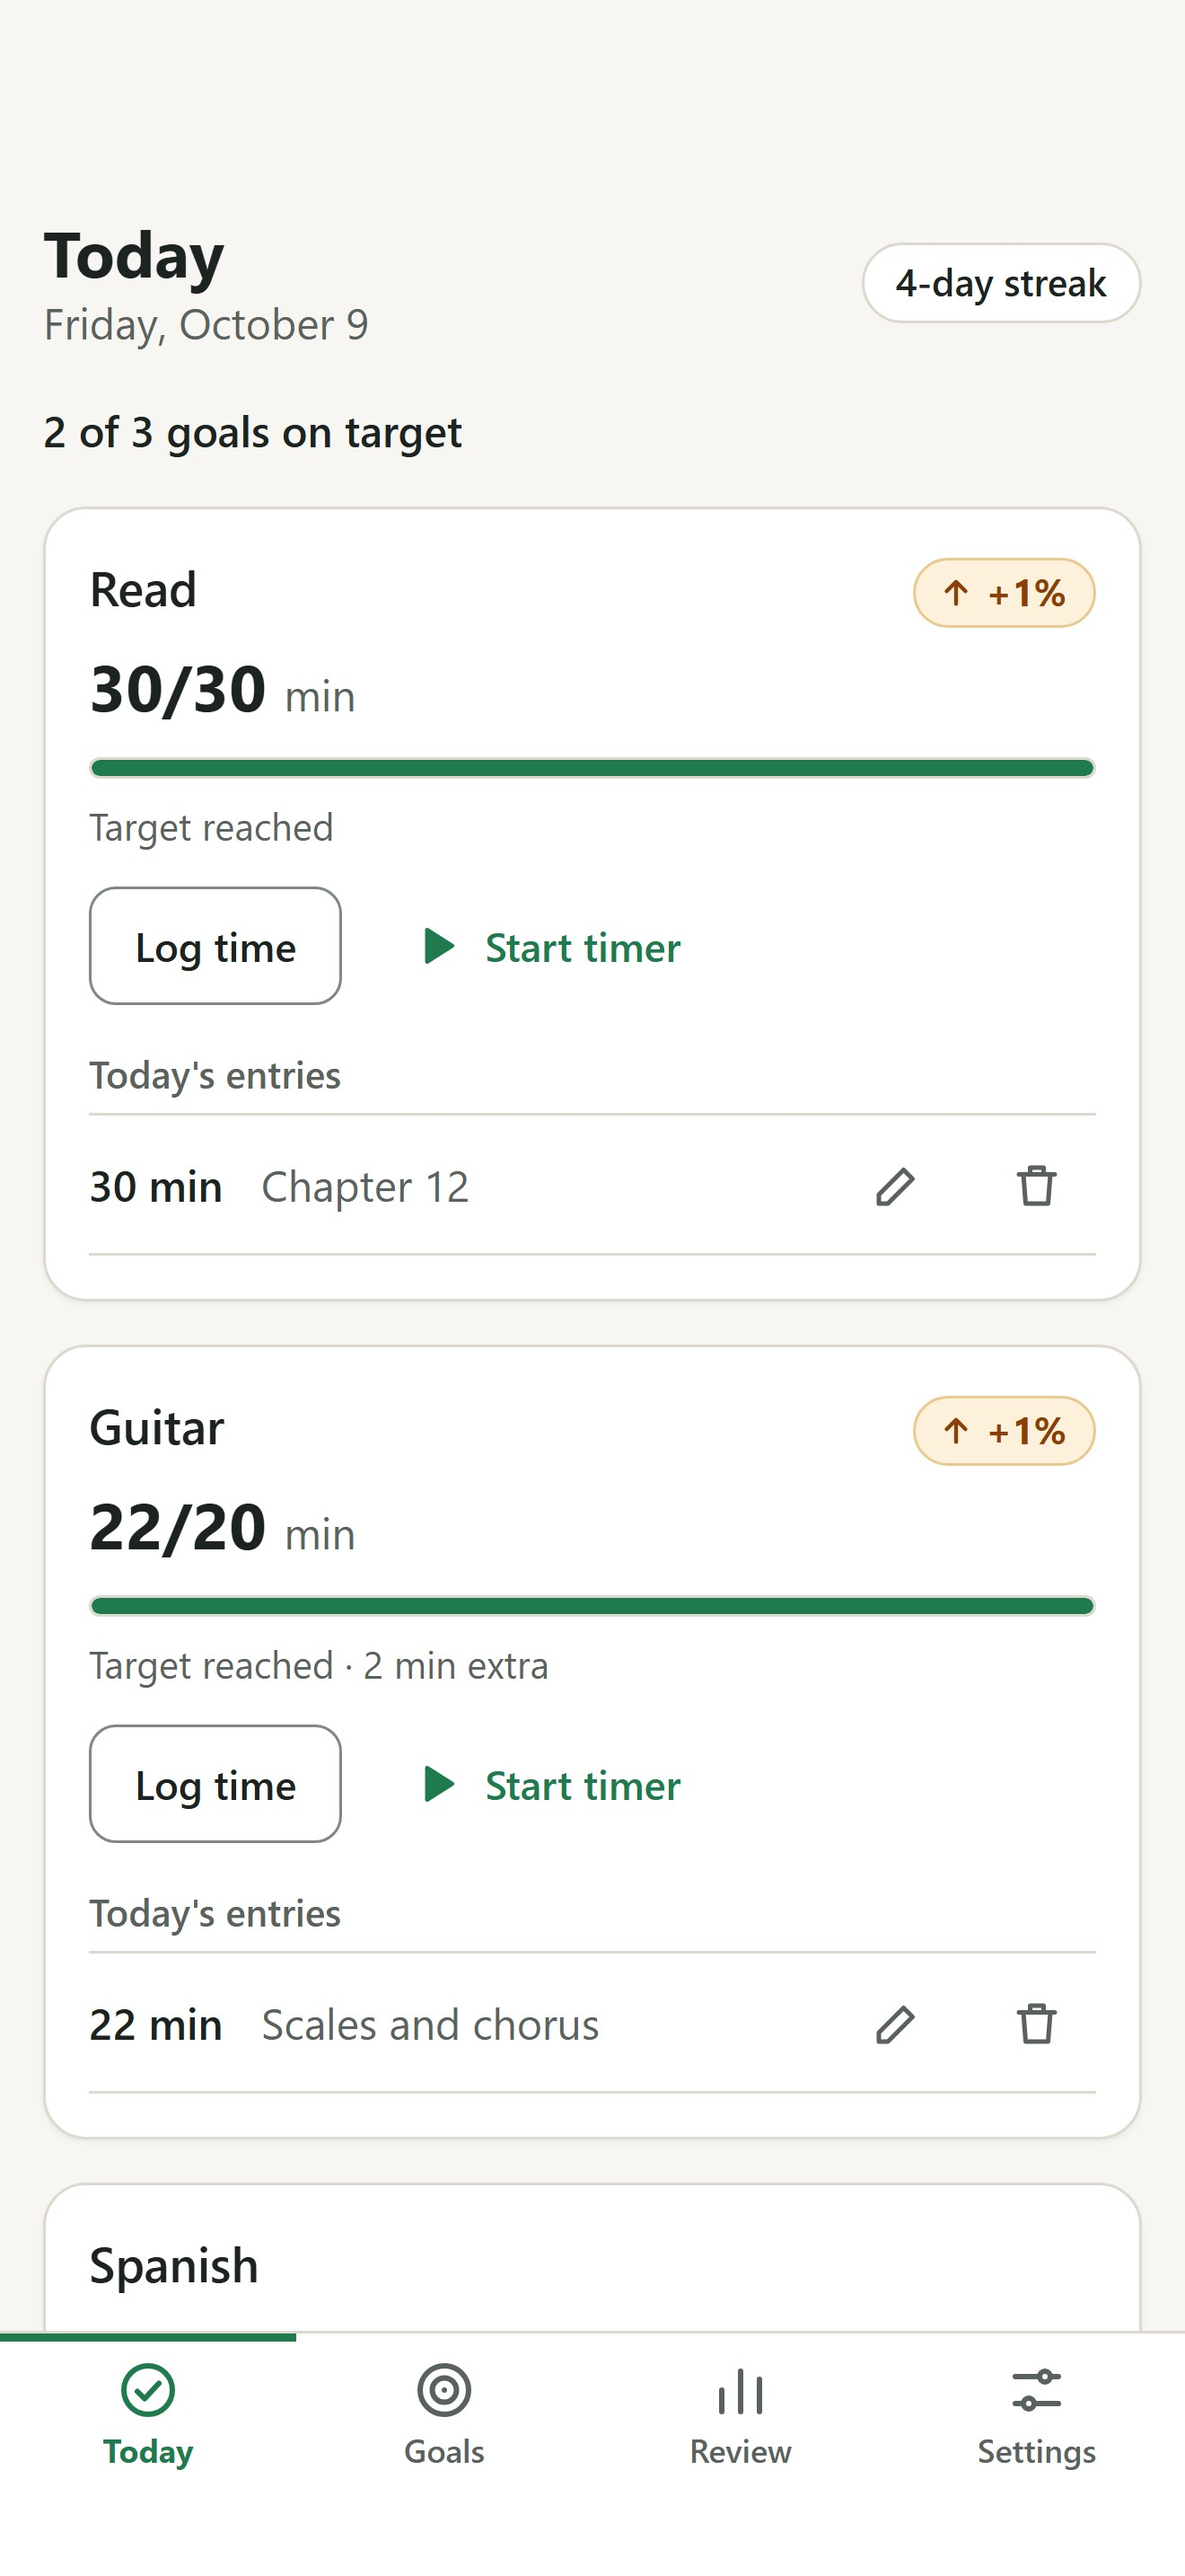
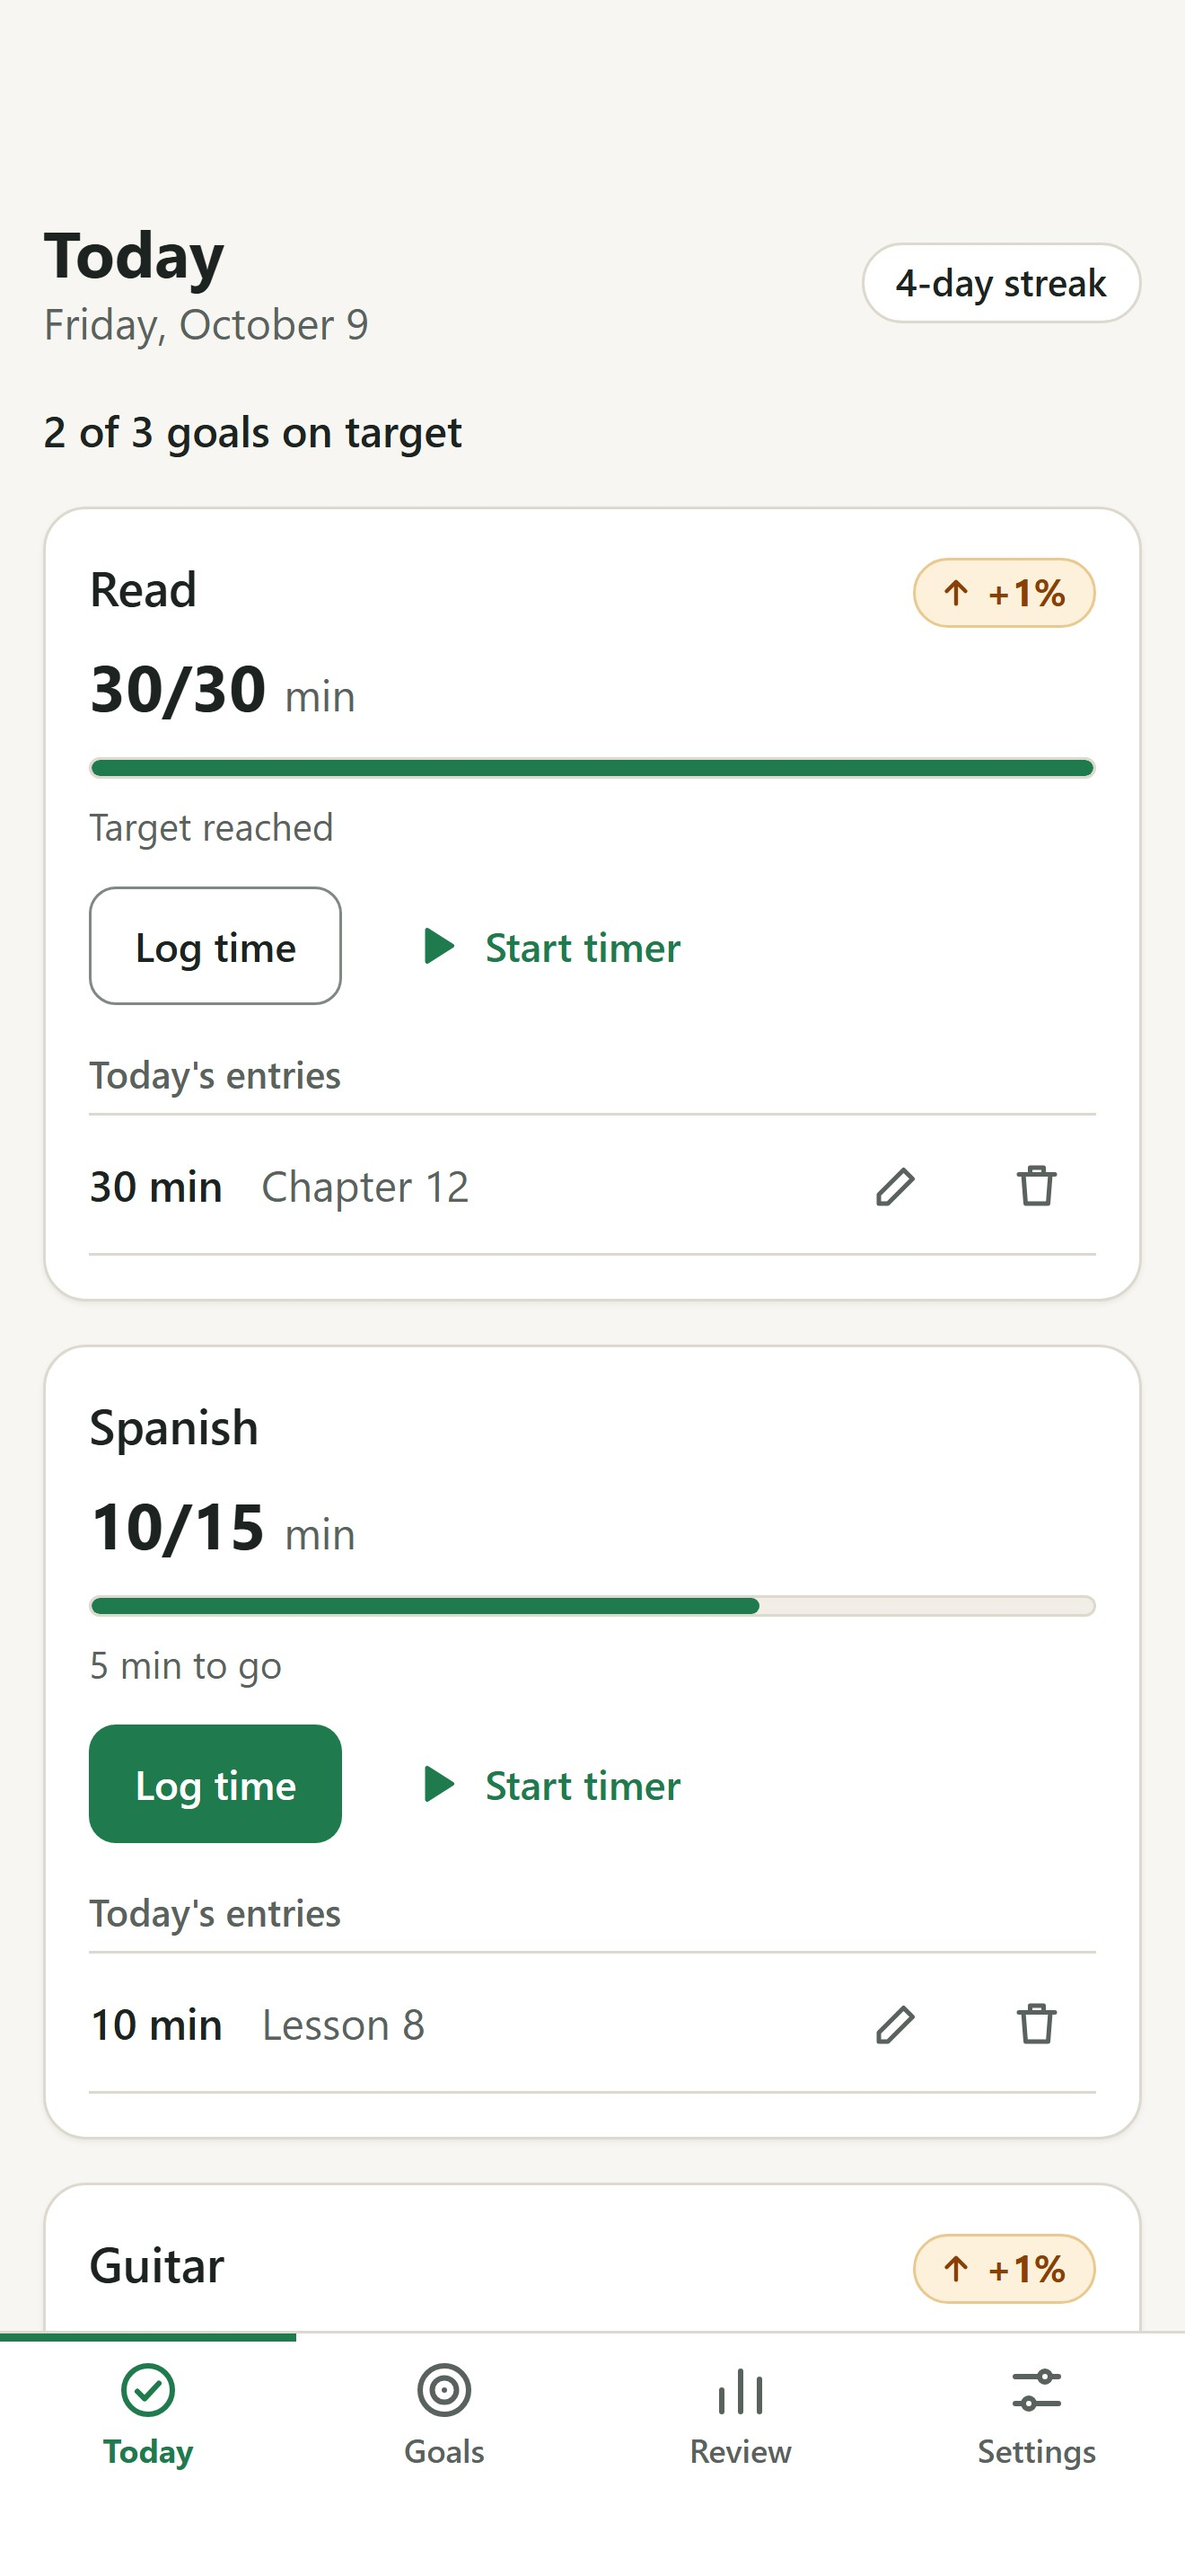
fix(M15): today's reminder is dropped once its instant is past (second precision) so a replan inside the reminder minute no longer fires immediately (M15-D2); demo goals created Read → Spanish → Guitar so screenshots 01/02 show the in-progress card, screenshot 05 scrolled to the Upcoming + Ended gro

diff --git a/store/screenshots.spec.ts b/store/screenshots.spec.ts
@@ -94,6 +94,12 @@ for (const [locale, appLocale, copy] of [
             await expectAmount(page, 'Guitar', '22/20');
             await expectAmount(page, copy === EN ? 'Spanish' : 'Tiếng Tây Ban Nha', '10/15');
             expect(await page.locator('[data-testid="backup-banner"], [data-testid="reminder-banner"]').count()).toBe(0);
+            // M15-D1: the in-progress card (10/15, "5 min to go") must be inside the picture, not under the tab bar.
+            await expect(page.getByRole('heading', { level: 1 })).toBeInViewport();
+            await expect(page.getByText(/^(5 min to go|Còn 5 phút)$/)).toBeInViewport({ ratio: 1 });
+            break;
+          case '02-timer.jpg':
+            await expect(page.getByText(/^(5 min to go|Còn 5 phút)$/)).toBeInViewport({ ratio: 1 });
             break;
           case '03-curve.jpg':
             await expect(page.getByRole('heading', { level: 1, name: 'Guitar' })).toBeVisible();
@@ -102,9 +108,21 @@ for (const [locale, appLocale, copy] of [
           case '04-review.jpg':
             await expect(page.getByTestId('heatmap')).toBeVisible();
             break;
-          case '05-goals.jpg':
+          case '05-goals.jpg': {
             await expect(goalCard(page, 'Piano').or(page.getByText('Piano'))).toBeVisible();
+            // M15-D1: show the three groups. The Active cards alone fill most of the screen, so the page is scrolled until
+            // the Ended heading and the top of the Stretch card sit just above the tab bar (the title scrolls off).
+            const ended = page.getByRole('heading', { level: 2, name: /^(Ended|Đã kết thúc)/ });
+            await ended.evaluate((el) => {
+              const tabBar = document.querySelector('.nav') as HTMLElement | null;
+              const reserve = (tabBar?.getBoundingClientRect().height ?? 90) + 200; // tab bar + first rows of the Stretch card
+              window.scrollTo(0, Math.max(0, el.getBoundingClientRect().top + window.scrollY - (window.innerHeight - reserve)));
+            });
+            await expect(ended).toBeInViewport({ ratio: 1 });
+            await expect(page.getByRole('heading', { level: 2, name: /^(Upcoming|Sắp tới)/ })).toBeInViewport({ ratio: 1 });
+            await expect(page.getByRole('heading', { level: 3, name: copy === EN ? 'Stretch' : 'Giãn cơ' })).toBeInViewport({ ratio: 1 });
             break;
+          }
           default:
             break;
         }

diff --git a/src/domain/reminder-plan.ts b/src/domain/reminder-plan.ts
@@ -37,20 +37,21 @@ function allActiveGoalsReached(goals: readonly Goal[], today: ISODate, progress:
 
 /**
  * Dates to schedule, ascending. Rules (ARCH §5.6 v5.0): nothing when reminders are off; a day is skipped when no
- * unarchived goal is active on it; today is skipped when the reminder time has already passed (`hh:mm(now) >
- * reminderTime`, equal keeps it) or when every active goal has already met its target today.
+ * unarchived goal is active on it; today is skipped when its reminder instant is already in the past (M15-D2: the
+ * plugin delivers a past `at` immediately, so `20:00:30` with a 20:00 reminder must not re-fire on every replan;
+ * exactly 20:00:00 still keeps today) or when every active goal has already met its target today.
  */
 export function planReminderDates({ now, reminderEnabled, reminderTime, goals, todayProgress, days = REMINDER_PLAN_DAYS }: ReminderPlanInput): ISODate[] {
   if (!reminderEnabled) return [];
   const target = reminderTimeToMinutes(reminderTime);
   if (target === null) return [];
   const today = toISODate(now);
-  const nowMinutes = now.getHours() * 60 + now.getMinutes();
+  const todayAt = reminderDateTime(today, reminderTime).getTime();
   const out: ISODate[] = [];
   for (let i = 0; i < days; i += 1) {
     const date = addDays(today, i);
     if (!hasActiveGoal(goals, date)) continue;
-    if (i === 0 && (nowMinutes > target || allActiveGoalsReached(goals, today, todayProgress))) continue;
+    if (i === 0 && (todayAt < now.getTime() || allActiveGoalsReached(goals, today, todayProgress))) continue;
     out.push(date);
   }
   return out;

diff --git a/src/domain/reminder-plan.test.ts b/src/domain/reminder-plan.test.ts
@@ -28,10 +28,17 @@ describe('planReminderDates (M15-AC1)', () => {
     expect(REMINDER_PLAN_DAYS).toBe(14);
   });
 
-  it('exactly at the reminder time (20:00:00) today is still planned; one minute later it is dropped (13 days)', () => {
+  it('exactly at the reminder time (20:00:00) today is still planned; one second later it is dropped (13 days) — M15-D2', () => {
+    expect(plan(s1(), at('19:59:59'))).toEqual(range('2026-10-09', 14));
     expect(plan(s1(), at('20:00:00'))).toEqual(range('2026-10-09', 14));
-    expect(plan(s1(), at('20:00:59'))).toEqual(range('2026-10-09', 14));
+    // A past `at` would be delivered immediately by the plugin on every replan inside that minute (M15-D2).
+    expect(plan(s1(), at('20:00:01'))).toEqual(range('2026-10-10', 13));
+    expect(plan(s1(), at('20:00:30'))).toEqual(range('2026-10-10', 13));
+    expect(plan(s1(), at('20:00:59'))).toEqual(range('2026-10-10', 13));
     expect(plan(s1(), at('20:01:00'))).toEqual(range('2026-10-10', 13));
+    // Every planned instant lies in the future (or is now).
+    const now = at('20:00:00');
+    for (const d of plan(s1(), now)) expect(reminderDateTime(d, '20:00').getTime()).toBeGreaterThanOrEqual(now.getTime());
   });
 
   it('every active goal already on target today → the plan starts tomorrow', () => {

diff --git a/src/services/reminder-service.replan.test.ts b/src/services/reminder-service.replan.test.ts
@@ -91,8 +91,8 @@ describe('ReminderService.replan (M15-AC2)', () => {
     expect(items[0].title).toBe(vi.notification.nativeTitle);
     expect(items[0].body).toBe(vi.notification.nativeBody);
     expect(items[0].at.getTime()).toBe(local('2026-10-09', 7, 30).getTime());
-    // Past 07:30 today → tomorrow first.
-    expect(await service.replan(at('07:31:00'))).toBe('scheduled');
+    // Past 07:30 today (even by seconds, M15-D2) → tomorrow first.
+    expect(await service.replan(at('07:30:05'))).toBe('scheduled');
     expect(pendingSchedule(notifications)[0].at.getTime()).toBe(local('2026-10-10', 7, 30).getTime());
     expect(pendingSchedule(notifications)).toHaveLength(13);
   });

diff --git a/docs/handoff/dev-M15.md b/docs/handoff/dev-M15.md
@@ -122,3 +122,15 @@ Kết quả lần chạy cuối (2026-10-22, HEAD `2c66097`, Windows 11, Node 22
 ## 10. Dispute
 
 - `tests/qc/m12-r1-static.test.ts` (7 plugin): mâu thuẫn plan M15-T2 (pin plugin thứ 8) — đề nghị re-target "= tập `@capacitor/*`/`@capgo/*` runtime trong `dependencies`". Không sửa file QC.
+
+## Fix log
+
+### Round 1 — theo report-M15-r1.md (QC commit `7a45d9a`; fix commit xem `git log a80e3b2..HEAD`)
+
+| Defect | Nguyên nhân gốc | Cách sửa | Regression test |
+| :- | :- | :- | :- |
+| M15-D2 (Minor) | `planReminderDates` so theo **phút** (`hh:mm(now) > reminderTime`): trong phút 20:00 (vd 20:00:30) hôm nay vẫn được giữ với `at = 20:00:00` đã ở quá khứ → plugin iOS giao ngay mỗi lần replan trong phút đó (ghi entry → debounce 2 s, resume, đổi giờ) | Domain: hôm nay bị bỏ khi **`reminderDateTime(today, time) < now`** (so mili-giây); đúng 20:00:00.000 vẫn giữ (M15-AC1); 20:00:01 trở đi → bắt đầu ngày mai. Không đổi adapter/service | `src/domain/reminder-plan.test.ts` ca "exactly at the reminder time … one second later it is dropped — M15-D2": 19:59:59 giữ, 20:00:00 giữ, 20:00:01 / 20:00:30 / 20:00:59 / 20:01:00 → 13 ngày từ 10-10; mọi `at` của lịch ≥ `now`. `reminder-service.replan.test.ts` ca vi dùng 07:30:05 → từ ngày mai. **Test QC `tests/qc/m15-r1-plan.test.ts:90` (`plan(at(20, 0, 59))[0] === '2026-10-09'`) nay đỏ** vì mã hoá quy tắc cũ theo phút — mâu thuẫn chính D2 → đề nghị QC re-target thành `'2026-10-10'` (không sửa file QC) |
+| M15-D1 (Minor) | Ở 440×956 mỗi card Today ≈ 650 px CSS (có danh sách "Today's entries" vì DESIGN yêu cầu ghi chú), 3 card không thể cùng lọt; Spanish (card duy nhất chưa đạt) đứng thứ ba theo `createdAt` nên bị tab bar che; Goals: 3 card Active + Piano chiếm hết màn, nhóm Ended ngoài khung | (1) `scripts/gen-store-fixtures.mjs`: thứ tự tạo Read → **Spanish** → Guitar → Piano → Stretch (`createdAt` 01:00 … 01:04; mảng `goals` vẫn theo bảng DESIGN) → ảnh 01: tiêu đề + Read 30/30 (+1 %) + Spanish 10/15 "5 min to go" trọn vẹn, Guitar lộ tiêu đề; ảnh 02: timer `00:12:41` + Read + Spanish 10/15 ("5 min to go" sát tab bar; bản vi dòng "Còn 5 phút" nằm dưới tab bar vì tiêu đề timer vi dài hơn). (2) Ảnh 05: cuộn tới khi heading **Ended** + đầu card Stretch nằm trên tab bar → thấy Spanish, Guitar, **Upcoming/Piano**, **Ended/Stretch** (tiêu đề "Goals" + nút New goal + heading Active cuộn khỏi khung — không thể có cả hai; DESIGN 7.8.8 giả định card gọn hơn app thật, đề nghị designer ghi nhận). Sinh lại 10 JPEG (`npm run store:screenshots` 2/2), đã xem lại ảnh en 01/02/05, vi 02/05 | `store/screenshots.spec.ts`: ảnh 01 assert h1 + chữ "5 min to go"/"Còn 5 phút" `toBeInViewport({ ratio: 1 })`; ảnh 02 assert "5 min to go"; ảnh 05 assert heading Ended, Upcoming và h3 Stretch/Giãn cơ trong khung. `src/test/store-fixtures.test.ts` (dataset byte-identical với generator) pass |
+| QC §9 README | Câu "Reminders \"Not supported\"" trong "How it is wired" lỗi thời | Sửa thành trạng thái quyền iOS (M15), "Not supported" chỉ khi runtime không có adapter | — |
+
+Kiểm sau fix (2026-10-22): `npm run lint` 0, `npm run typecheck` 0; Vitest `src/domain` + replan + scheduler + store + `tests/qc`: 1.268 pass / **1 fail** (ca QC m15-r1-plan:90 nêu trên) / 3 expected fail; `e2e/native/m15-reminders.spec.ts` 4/4; budget `e2e/m10-bundle` **228,0 kB** (không đổi; không thêm chuỗi). Không chạy lại toàn bộ 3 project E2E (thay đổi chỉ ở domain plan, generator fixture, spec screenshot ngoài `test:e2e`, README).

diff --git a/README.md b/README.md
@@ -277,7 +277,7 @@ Since M12 the same code base also builds a native iOS app with [Capacitor 8](htt
 - `npm run build:native` = `tsc -b && vite build --mode native` → `dist-native/`: base `/` (Capacitor serves from `capacitor://localhost`), **no service worker and no web manifest** (`vite-plugin-pwa` is disabled), and the build-time constant `__OPB_NATIVE__ = true`. `npm run build:native-e2e` is the same with the cloud forced off (`.env.native-e2e`) for Playwright. Like `npm run build`, `build:native` reads `.env.local`, but in M12 the app ignores the cloud configuration on native (no account until native sign-in exists, M14).
 - `src/integration/platform.ts` holds the **only** `import()` into `src/integration/native/**`, guarded by `__OPB_NATIVE__`; on the web build the bundler drops it, so `dist/` contains no Capacitor code (`grep -rl Filesystem dist` → nothing, while the same grep finds the plugin in `dist-native/`). ESLint refuses `@capacitor/*` / `@capgo/*` imports anywhere else, refuses `import()` of `integration/native` outside `platform.ts`, and refuses value imports from `src/integration/**` in `src/ui/**` (the UI reads `capabilities` and the ports from the container).
 - `src/integration/native/`: `index.ts` (`createNativePlatform()` — `null` when `Capacitor.getPlatform()` is `'web'`), `file-export.ts` (`FileExportPort`: write the file to the app cache with `@capacitor/filesystem`, then the iOS **share sheet** with `@capacitor/share`; dismissing the sheet is a silent cancel and does not count as a backup), `lifecycle.ts` (`resume` from `@capacitor/app` triggers the same reminder check / sync as `visibilitychange`).
-- `src/app/capabilities.ts` (`AppCapabilities`: `platform`, `serviceWorker`, `pwaHints`, `nativeShare`, `nativeAuth`, `appleSignIn`, `scheduledNotifications`, `publicSiteUrl`) is computed once in `src/app/container.ts`; the UI picks the native copy from it (Settings: Language note, Reminders "Not supported", Backup share hint, Storage "In this app", About "this iPhone", absolute privacy link that opens in Safari; no "New version" toast; no "Add to Home Screen" hints; native S9 copy). `src/app/start.ts` skips the service worker and its message channel on the native build.
+- `src/app/capabilities.ts` (`AppCapabilities`: `platform`, `serviceWorker`, `pwaHints`, `nativeShare`, `nativeAuth`, `appleSignIn`, `scheduledNotifications`, `publicSiteUrl`) is computed once in `src/app/container.ts`; the UI picks the native copy from it (Settings: Language note, Reminders with the iOS permission states (M15; "Not supported" only on a runtime without the notifications adapter), Backup share hint, Storage "In this app", About "this iPhone", absolute privacy link that opens in Safari; no "New version" toast; no "Add to Home Screen" hints; native S9 copy). `src/app/start.ts` skips the service worker and its message channel on the native build.
 - `capacitor.config.ts`: `appId` `io.github.minhlgm.onepercentbetter`, `appName` `1% Better`, `webDir` `dist-native`. `ios/` is the committed Xcode project (Swift Package Manager, `ios/App/CapApp-SPM/Package.swift` regenerated by `cap sync`): bundle id as above, display name `1% Better`, iOS 16.4+, iPhone only, portrait only, `ITSAppUsesNonExemptEncryption = false`, version `1.0.0` build `1`. Generated files (`ios/App/App/public/`, `capacitor.config.json`, `config.xml`) are git-ignored, as are `dist-native*/` and every signing artefact (`*.p8`, `*.p12`, `*.mobileprovision`, …).
 
 **Commands**
